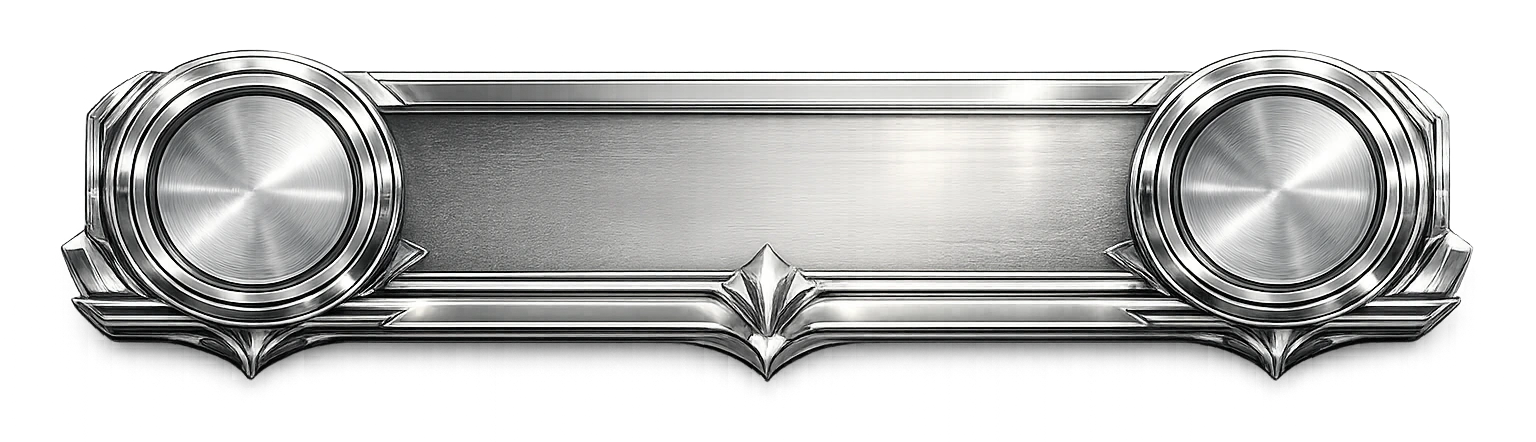
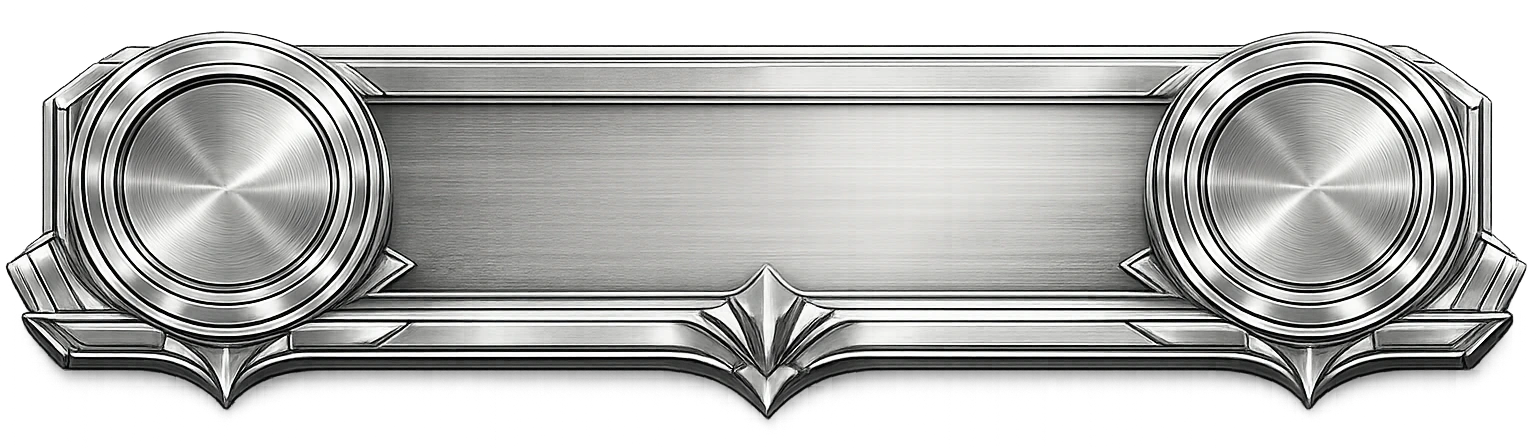
s

diff --git a/css/style.css b/css/style.css
@@ -2723,7 +2723,7 @@ body.vr-body-game[data-universe="mega_corp_ceo"] #view-game .vr-choices{
 
 body.vr-body-game[data-universe="mega_corp_ceo"] #view-game .vr-choice-button{
   overflow: hidden !important;
-  background-size: 100% 110% !important;
+  background-size: 100% 120% !important;
   background-position: center !important;
   background-repeat: no-repeat !important;
   box-sizing: border-box !important;
